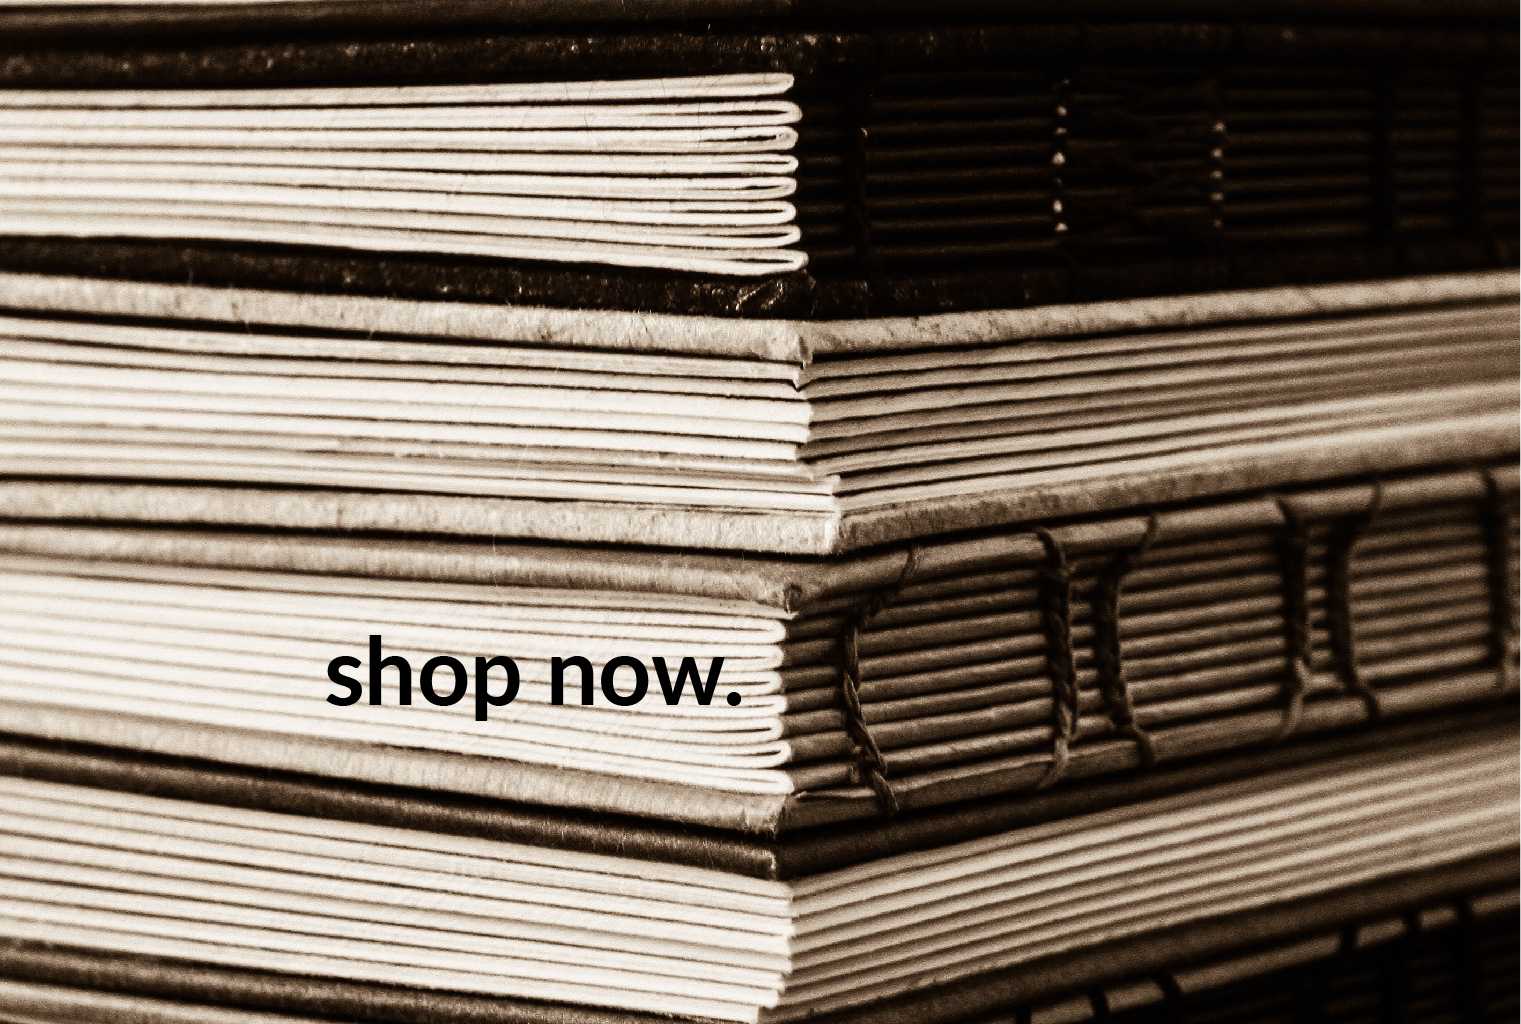
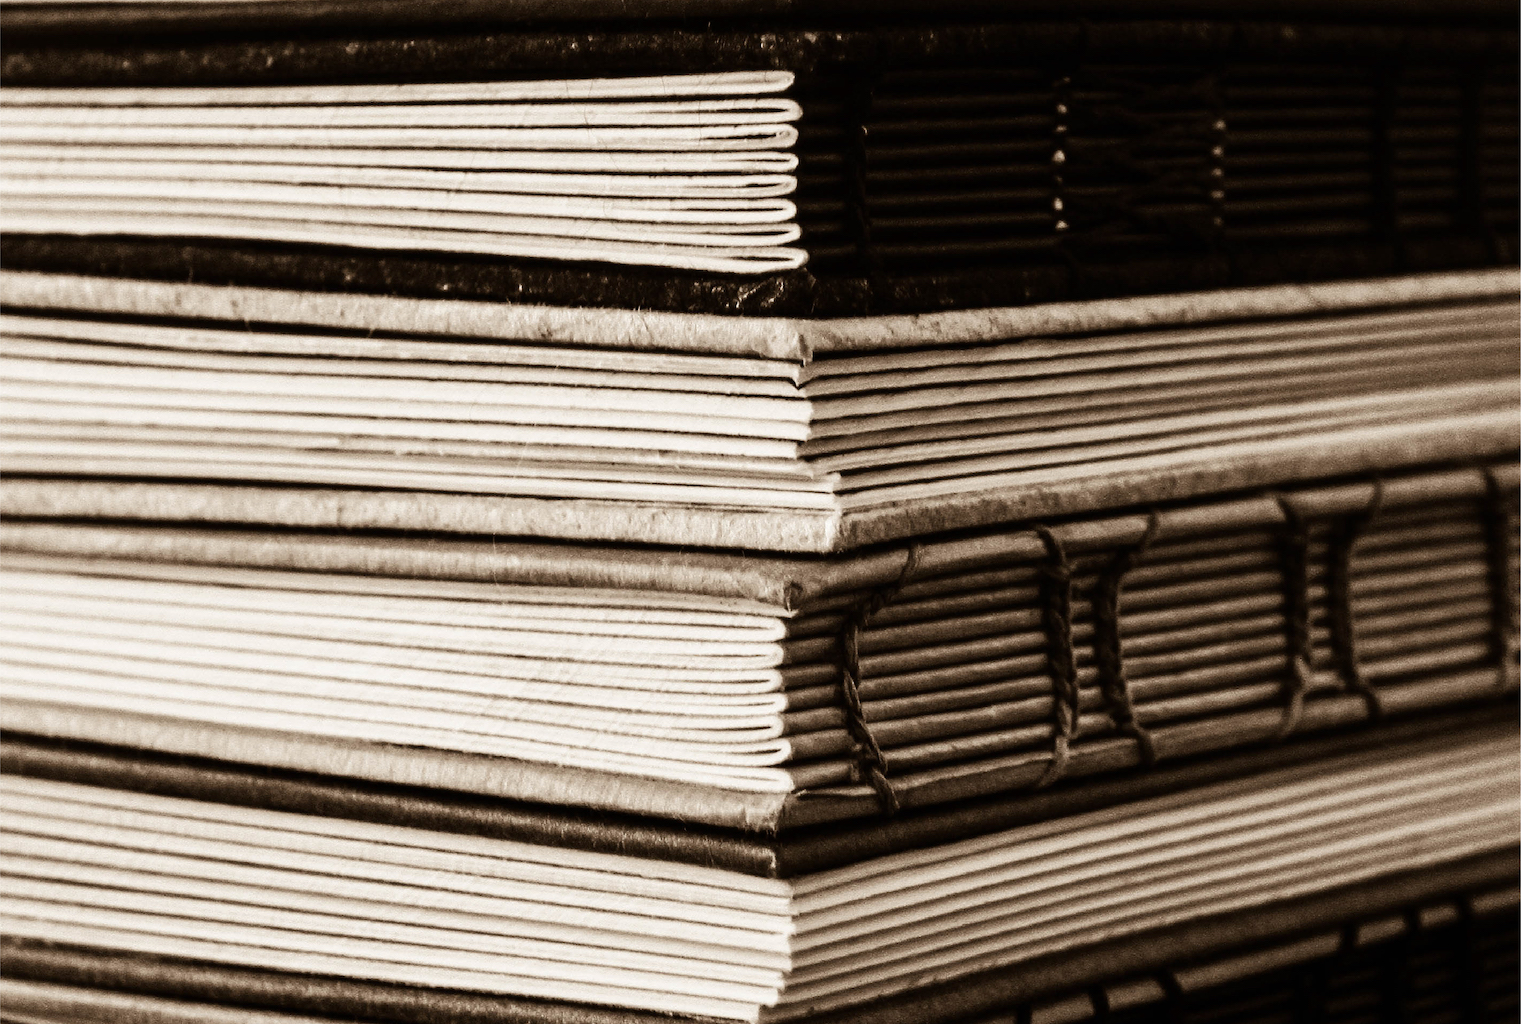
New Shop Picture
Let’s try this instead

Changed region(s): [[0.0, 0.0312, 1.0, 1.0], [0.0, 0.0, 0.2163, 0.0312]]

diff --git a/index.html b/index.html
@@ -288,7 +288,7 @@
 											<span class="overlay-info">
 												<span>
 													<span>
-														<span class="project-title"></span>
+														<span class="project-title">SHOP NOW.</span>
 														<span class="project-description">Click here to place your oder</span>
 													</span>
 												</span>
